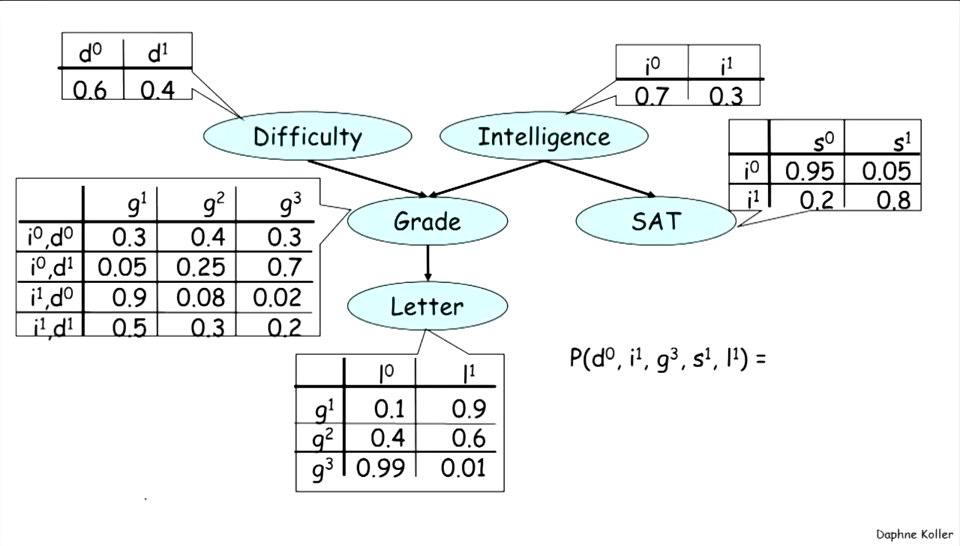
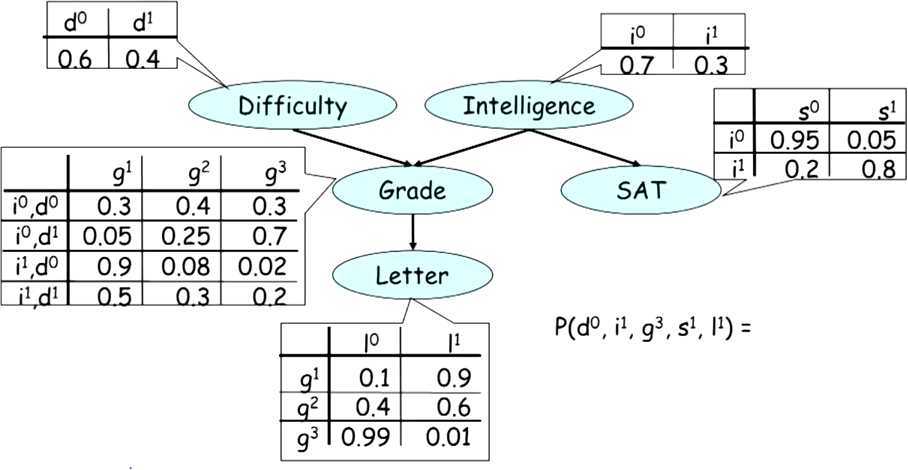
Check point.

Changed region(s): [[0.0, 0.0, 1.0, 0.983], [0.5859, 0.6255, 0.8326, 0.7447], [0.8943, 0.9532, 1.0, 1.0]]

diff --git a/docs/coursera_notes/coursera_notes.tex b/docs/coursera_notes/coursera_notes.tex
@@ -27,7 +27,7 @@ Please see the student example in Fig.~\ref{fig:student_example}.
 
 \begin{figure}[H]
 \centering
-\includegraphics[width=6in]{graphics/example_student.png}
+\includegraphics[width=6.5in]{graphics/example_student.png}
 \caption{Student Example. Each node is annotated with a conditional probability distribution (CPD).}
 \label{fig:student_example}
 \end{figure}
@@ -303,6 +303,53 @@ Assume that $(X_i \bot X_j | C)$ for all $X_i, X_j$.
 \begin{equation*}
   \Pr(C, X_1, \ldots, X_n) = \Pr(C) \sum_{i=1}^n \Pr(X_i | C)
 \end{equation*}
+
+
+
+\subsection{Week 2. Template Models for Bayesian Networks}
+
+\subsubsection{Temporal Models}
+
+Using the chain rule for probability,
+\begin{equation*}
+  \Pr(X^{(0:T)}) = \Pr(X^{(0)}) \prod_{t=0}^{T-1} \Pr\left(X^{(t+1)} \middle\vert X^{(0:t)} \right) \, .
+\end{equation*}
+
+If we make the Markov assumption where the system has no memory, $\left( X^{(t+1)} \bot X^{(0:t-1)} \middle\vert X^{(t)}\right)$.
+We have
+\begin{equation*}
+  \Pr(X^{(0:T)}) = \Pr(X^{(0)}) \prod_{t=0}^{T-1} \Pr\left(X^{(t+1)} \middle\vert X^{(t)} \right) \, .
+\end{equation*}
+
+We can further assume that the probability model is time-invariant.
+\begin{equation*}
+  \Pr\left(X^{(t+1)} \middle\vert X^{(t)} \right) = \Pr\left(X' \middle\vert X \right) \, .
+\end{equation*}
+
+In the traffic model shown in Fig.~\ref{fig:example_template_transit_model},
+\begin{equation*}
+  \Pr(W', V', L', F', O' | W, V, L, F) = \Pr(W'|W) \Pr(V'|W, V) \Pr(L' | L, V) \Pr(F' | F, W) \Pr(O' | L', F') \, .
+\end{equation*}
+Note that $O$ is not referenced as it does not affect anything later in time.
+
+\begin{figure}[H]
+\centering
+\includegraphics[width=6.5in]{graphics/example_template_transit_model.png}
+\caption{A Traffic Model.}
+\label{fig:example_template_transit_model}
+\end{figure}
+
+\subsection{Week 2. Structured CPDs for Bayesian Networks}
+
+
+\subsection{Week 3. Markov Networks (Undirected Models)}
+
+
+\subsection{Week 4. Decision Making}
+
+
+\subsection{Week 5. Knowledge Engineering \& Summary}
+
 
 
 
